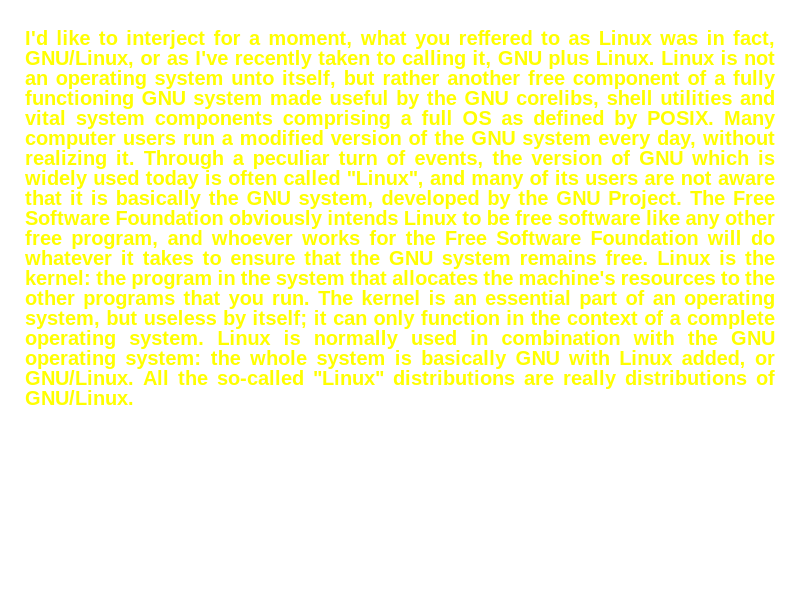
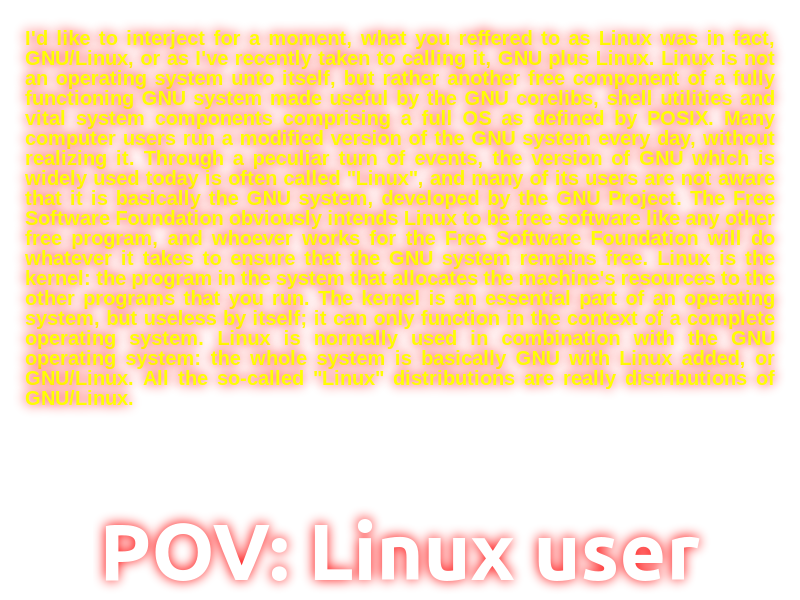
I don't know...

diff --git a/lib/textAttr.js b/lib/textAttr.js
@@ -31,6 +31,7 @@ exports.getTotalWidth = getTotalWidth;
  * @param spaceWidth Width of the space between words
  */
 function paintText(ctx, text, x, y, fontSize, spaceWidth) {
+    var _a, _b;
     if (spaceWidth === void 0) { spaceWidth = 0; }
     ctx.save();
     for (var i = 0; i < text.length; i++) {
@@ -38,12 +39,15 @@ function paintText(ctx, text, x, y, fontSize, spaceWidth) {
         if (text[i].modifier == undefined)
             text[i].modifier = '';
         ctx.font = "".concat(text[i].modifier, " ").concat(fontSize, "px ").concat(text[i].font);
-        // if (text[i].shadow) {
-        //     ctx.shadowColor = text[i].shadow.color;
-        //     ctx.shadowOffsetX = text[i].shadow.offset[0] * fontSize / 100;
-        //     ctx.shadowOffsetY = text[i].shadow.offset[1] * fontSize / 100;
-        //     ctx.shadowBlur = text[i].shadow.blur;
-        // } else ctx.shadowColor = "transparent";
+        if (text[i].shadow) {
+            //If it works, it works, but it still doesn't work (please someone fix this)
+            ctx.shadowColor = "".concat((_a = text[i].shadow) === null || _a === void 0 ? void 0 : _a.color);
+            //ctx.shadowOffsetX = text[i].shadow?.offset[0] * fontSize / 100;
+            //ctx.shadowOffsetY = text[i].shadow?.offset[1] * fontSize / 100;
+            ctx.shadowBlur = parseInt("".concat((_b = text[i].shadow) === null || _b === void 0 ? void 0 : _b.blur));
+        }
+        else
+            ctx.shadowColor = "transparent";
         ctx.fillText(text[i].text, x, y);
         x += ctx.measureText(text[i].text).width + spaceWidth;
     }

diff --git a/src/textAttr.ts b/src/textAttr.ts
@@ -54,14 +54,15 @@ function paintText(ctx: CanvasRenderingContext2D, text: Array<TextObject>, x: nu
         if (text[i].modifier == undefined) text[i].modifier = '';
         ctx.font = `${text[i].modifier} ${fontSize}px ${text[i].font}`;
         
-        // if (text[i].shadow) {
+        if (text[i].shadow) {
+
+            //If it works, it works, but it still doesn't work (please someone fix this)
+            ctx.shadowColor = `${text[i].shadow?.color}`
+            //ctx.shadowOffsetX = text[i].shadow?.offset[0] * fontSize / 100;
+            //ctx.shadowOffsetY = text[i].shadow?.offset[1] * fontSize / 100;
+            ctx.shadowBlur = parseInt(`${text[i].shadow?.blur}`)
             
-        //     ctx.shadowColor = text[i].shadow.color;
-        //     ctx.shadowOffsetX = text[i].shadow.offset[0] * fontSize / 100;
-        //     ctx.shadowOffsetY = text[i].shadow.offset[1] * fontSize / 100;
-        //     ctx.shadowBlur = text[i].shadow.blur;
-            
-        // } else ctx.shadowColor = "transparent";
+        } else ctx.shadowColor = "transparent";
         
         ctx.fillText(text[i].text, x, y);
         x += ctx.measureText(text[i].text).width + spaceWidth;
